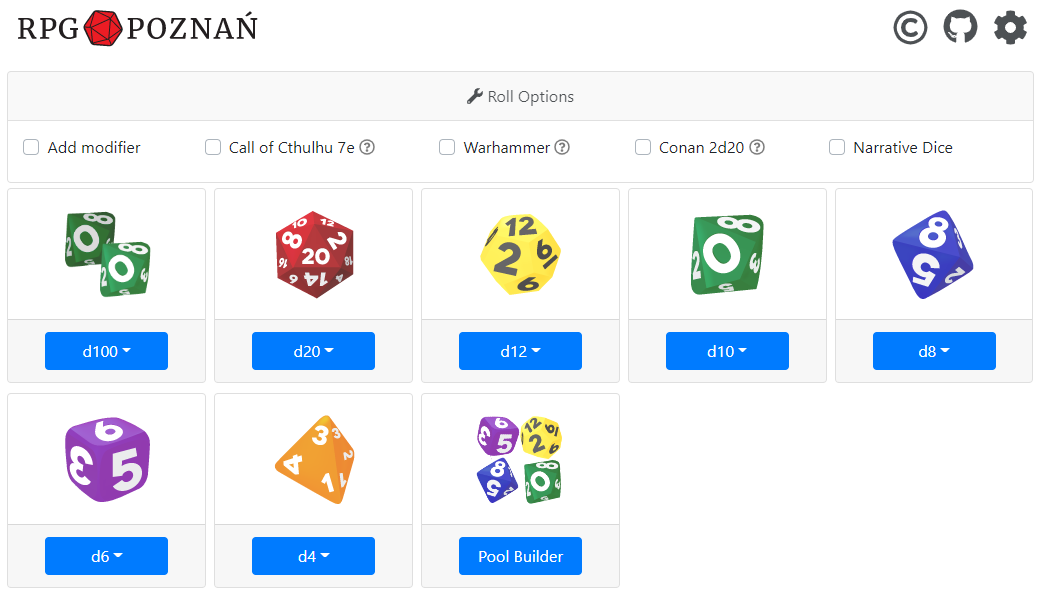
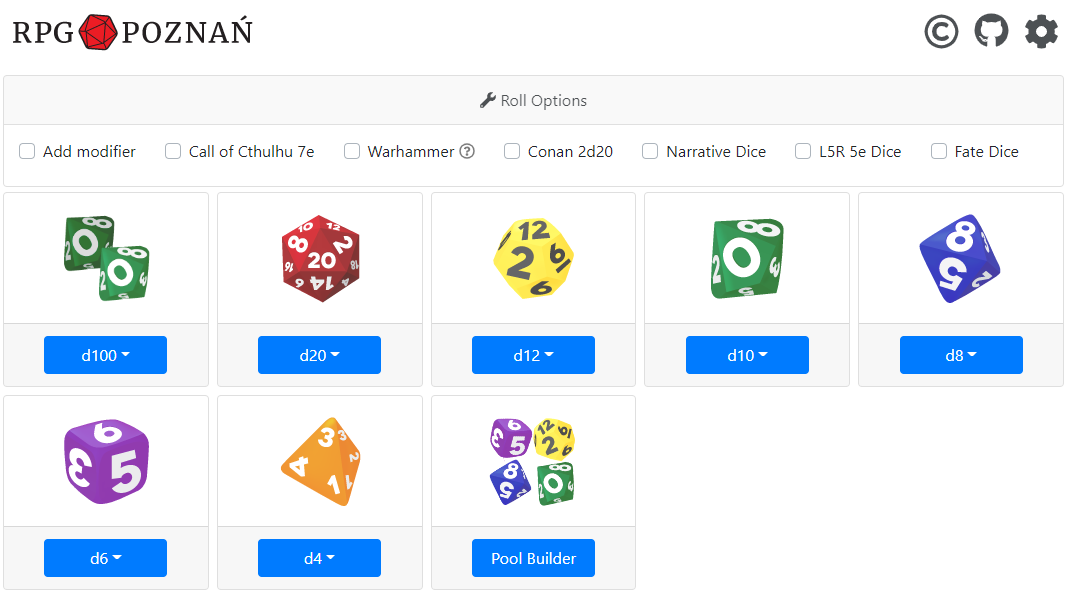
Update local msg, update Readme

diff --git a/src/middleware/getMsg/getLocalMsg.middleware.tsx b/src/middleware/getMsg/getLocalMsg.middleware.tsx
@@ -39,7 +39,8 @@ const getLocalMsg = (store:any) => (next:any) => (action:any) => {
 			dmg,
 			effects,
 			diceTypeNum,
-			fateResults
+			fateResults,
+			fateResultTotal
 		} = result;
 		const hasMultipleDice = diceAmount > 1;
 		const rolledWord = hasMultipleDice ? 'Results' : 'Result';
@@ -57,14 +58,14 @@ const getLocalMsg = (store:any) => (next:any) => (action:any) => {
 			);
 		}
 	
-		if ((hasMultipleDice || rollOptions.useModifier) && (!isCombatDie && !isConanHitLocationDie)) {
+		if ((hasMultipleDice || rollOptions.useModifier || isFate) && (!isCombatDie && !isConanHitLocationDie)) {
 			if (rollOptions.useModifier) {
 				fields.push(
-					<>{IconRight} Total (with {modifierWithSymbol} modifier): <CodeSpan>{totalWithModifier}</CodeSpan>.</>
+					<>{IconRight} Total (with {modifierWithSymbol} modifier): <CodeSpan>{fateResultTotal || totalWithModifier}</CodeSpan>.</>
 				);
 			} else {
 				fields.push(
-					<>{IconRight} Total: <CodeSpan>{totalWithoutModifier}</CodeSpan>.</>
+					<>{IconRight} Total: <CodeSpan>{fateResultTotal || totalWithoutModifier}</CodeSpan>.</>
 				);
 			}
 		}

diff --git a/src/middleware/rollRequested.middleware.ts b/src/middleware/rollRequested.middleware.ts
@@ -14,7 +14,6 @@ import {
 } from '../consts/diceConstants';
 import { FATE_DIE, MINUS, PLUS } from '../consts/fateConsts';
 import mapValueToFate from './utils/mapValueToFate';
-import ResultsModalContainer from '../components/ResultsModal/ResultsModalContainer';
 
 interface rollDiceResult {
 	results: Array<number>;
@@ -174,7 +173,6 @@ export default (store: any) => (next: any) => (action: any) => {
 		if (diceType === FATE_DIE) {
 			result.fateResults = result.results.map(mapValueToFate);
 			const fateResultTotal = result.fateResults.reduce((resultTotal, current) => {
-				console.log('current', current);
 				if (current === PLUS) {
 					return resultTotal + 1;
 				} else if (current === MINUS) {

diff --git a/README.md b/README.md
@@ -15,6 +15,8 @@ The app offers special support for following games:
 
 [![App interface](./public/app.png)]()
 
+[![Fate dice](./public/fate.png)]()
+
 ### Sample results inside Discord's Chat
 [![Sample Chat Results](./public/chat-sample-results.png)]()
 
